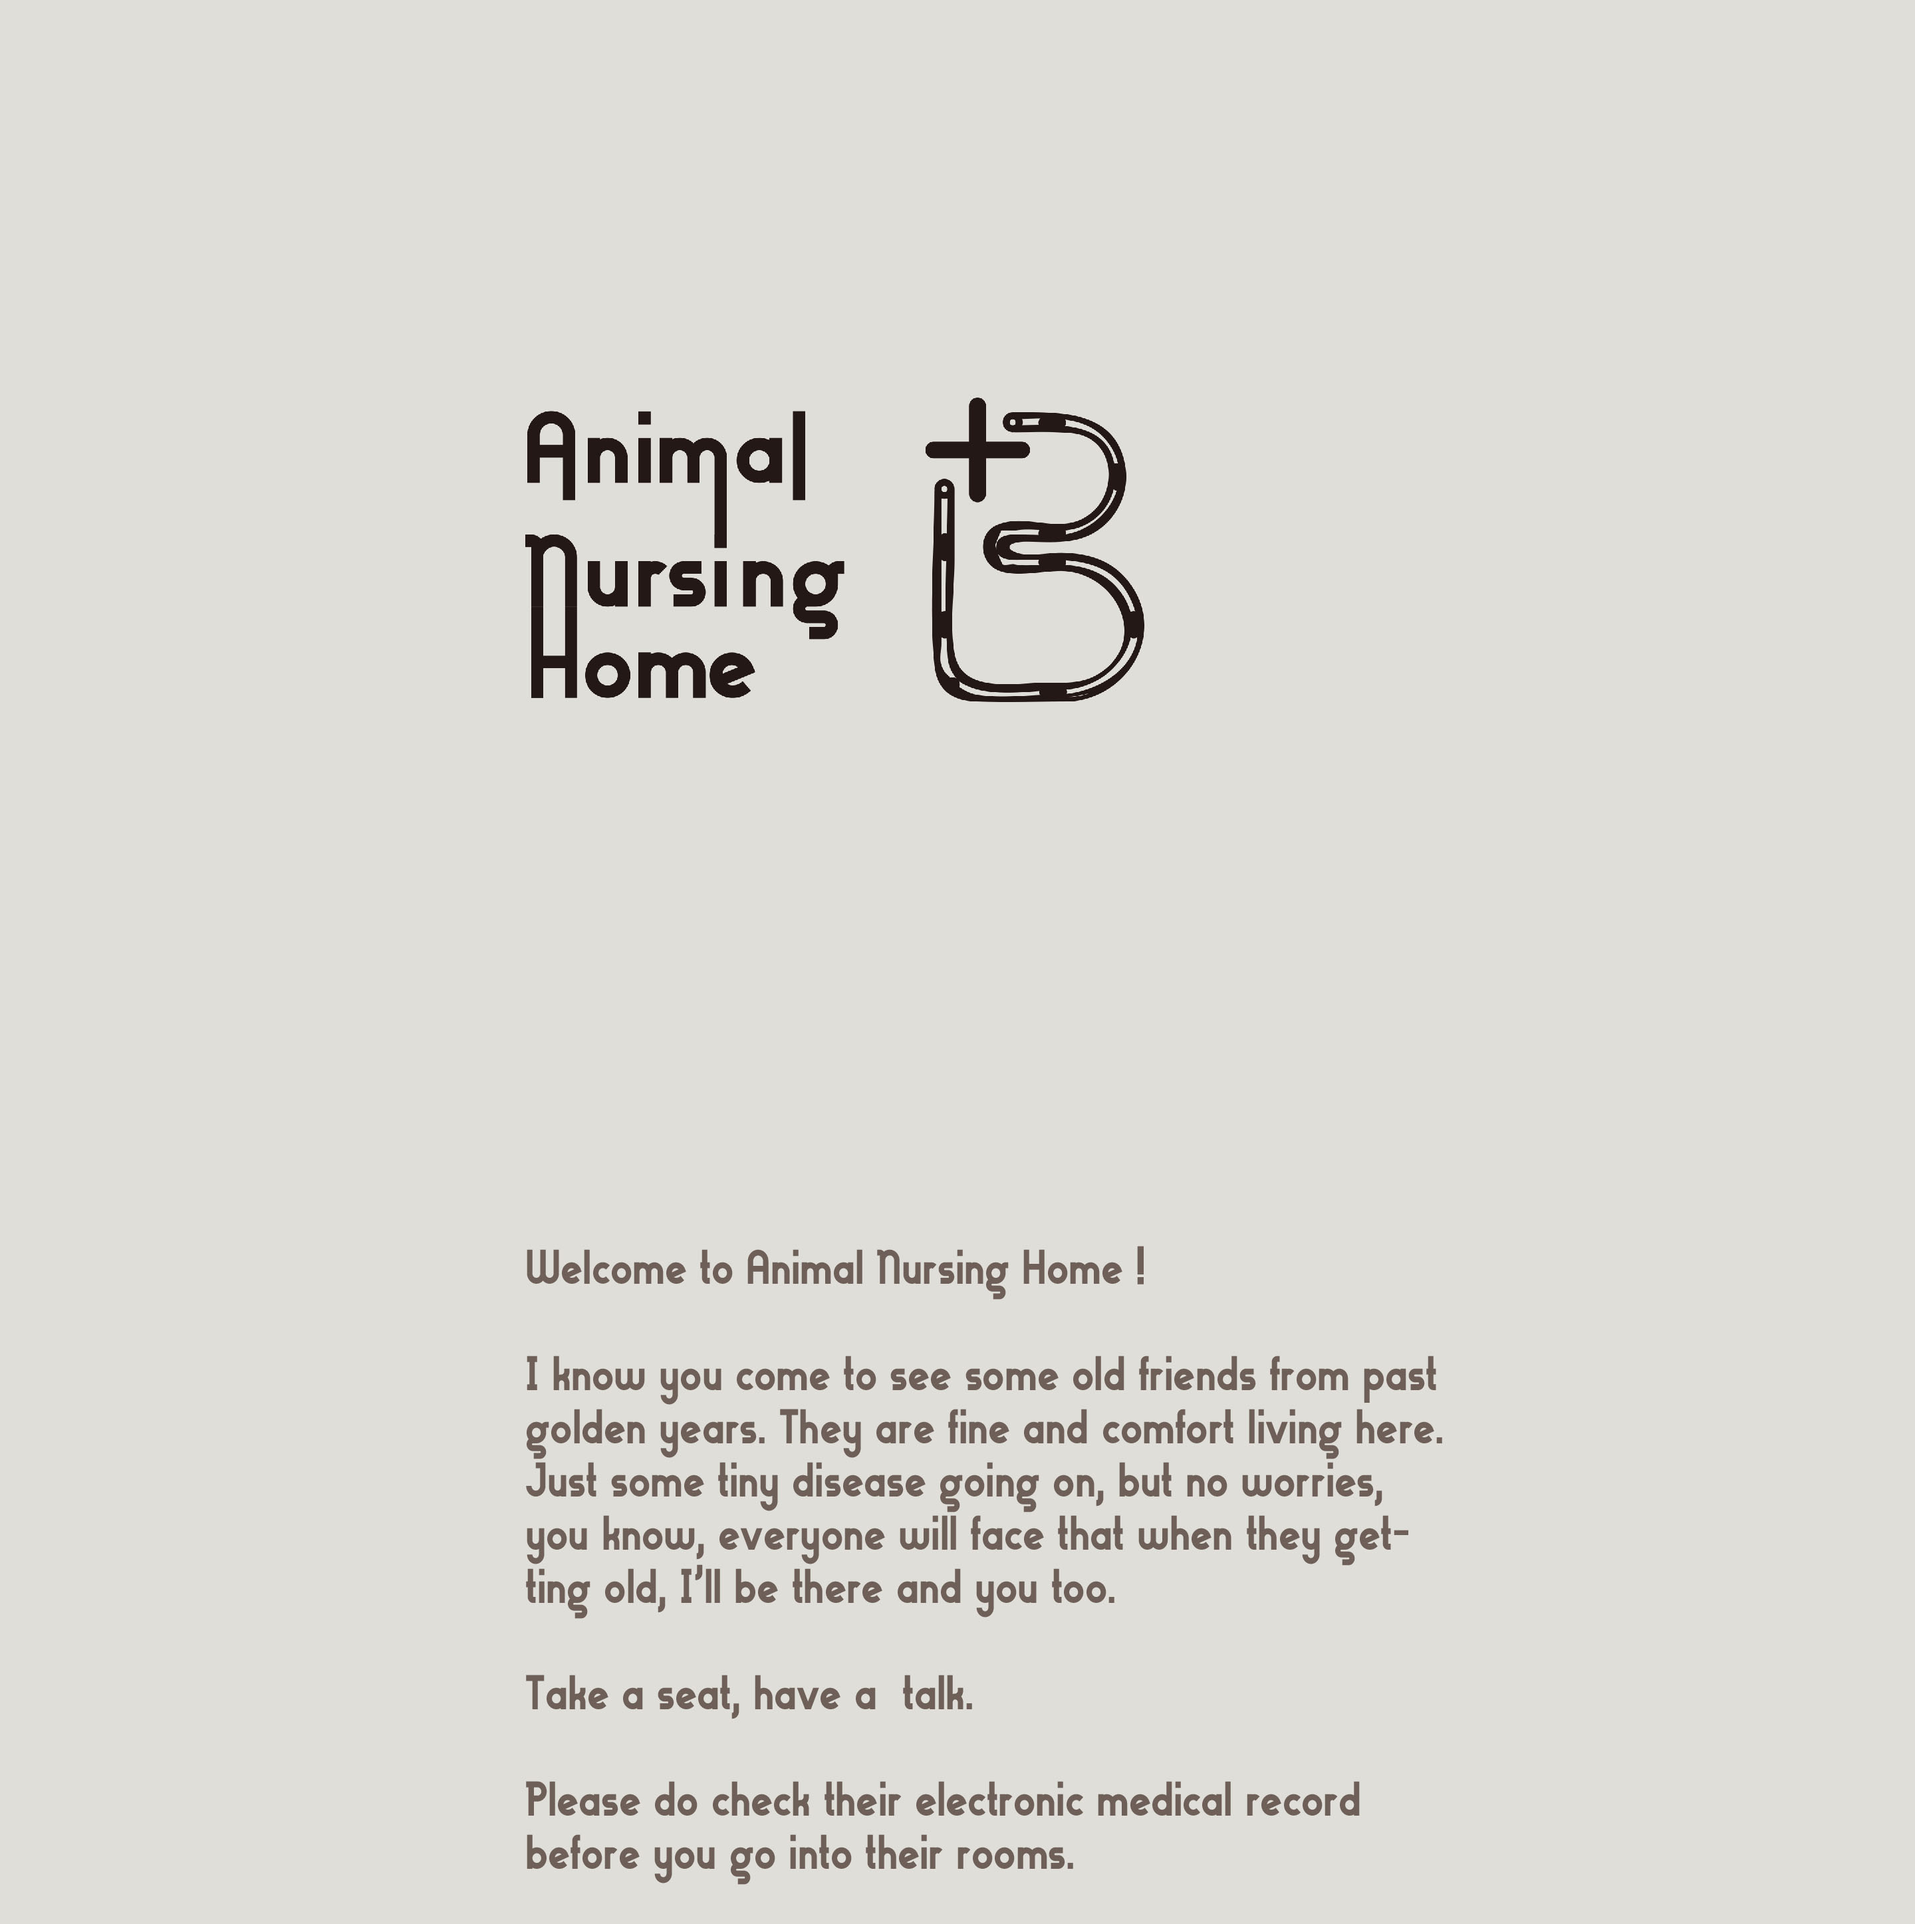
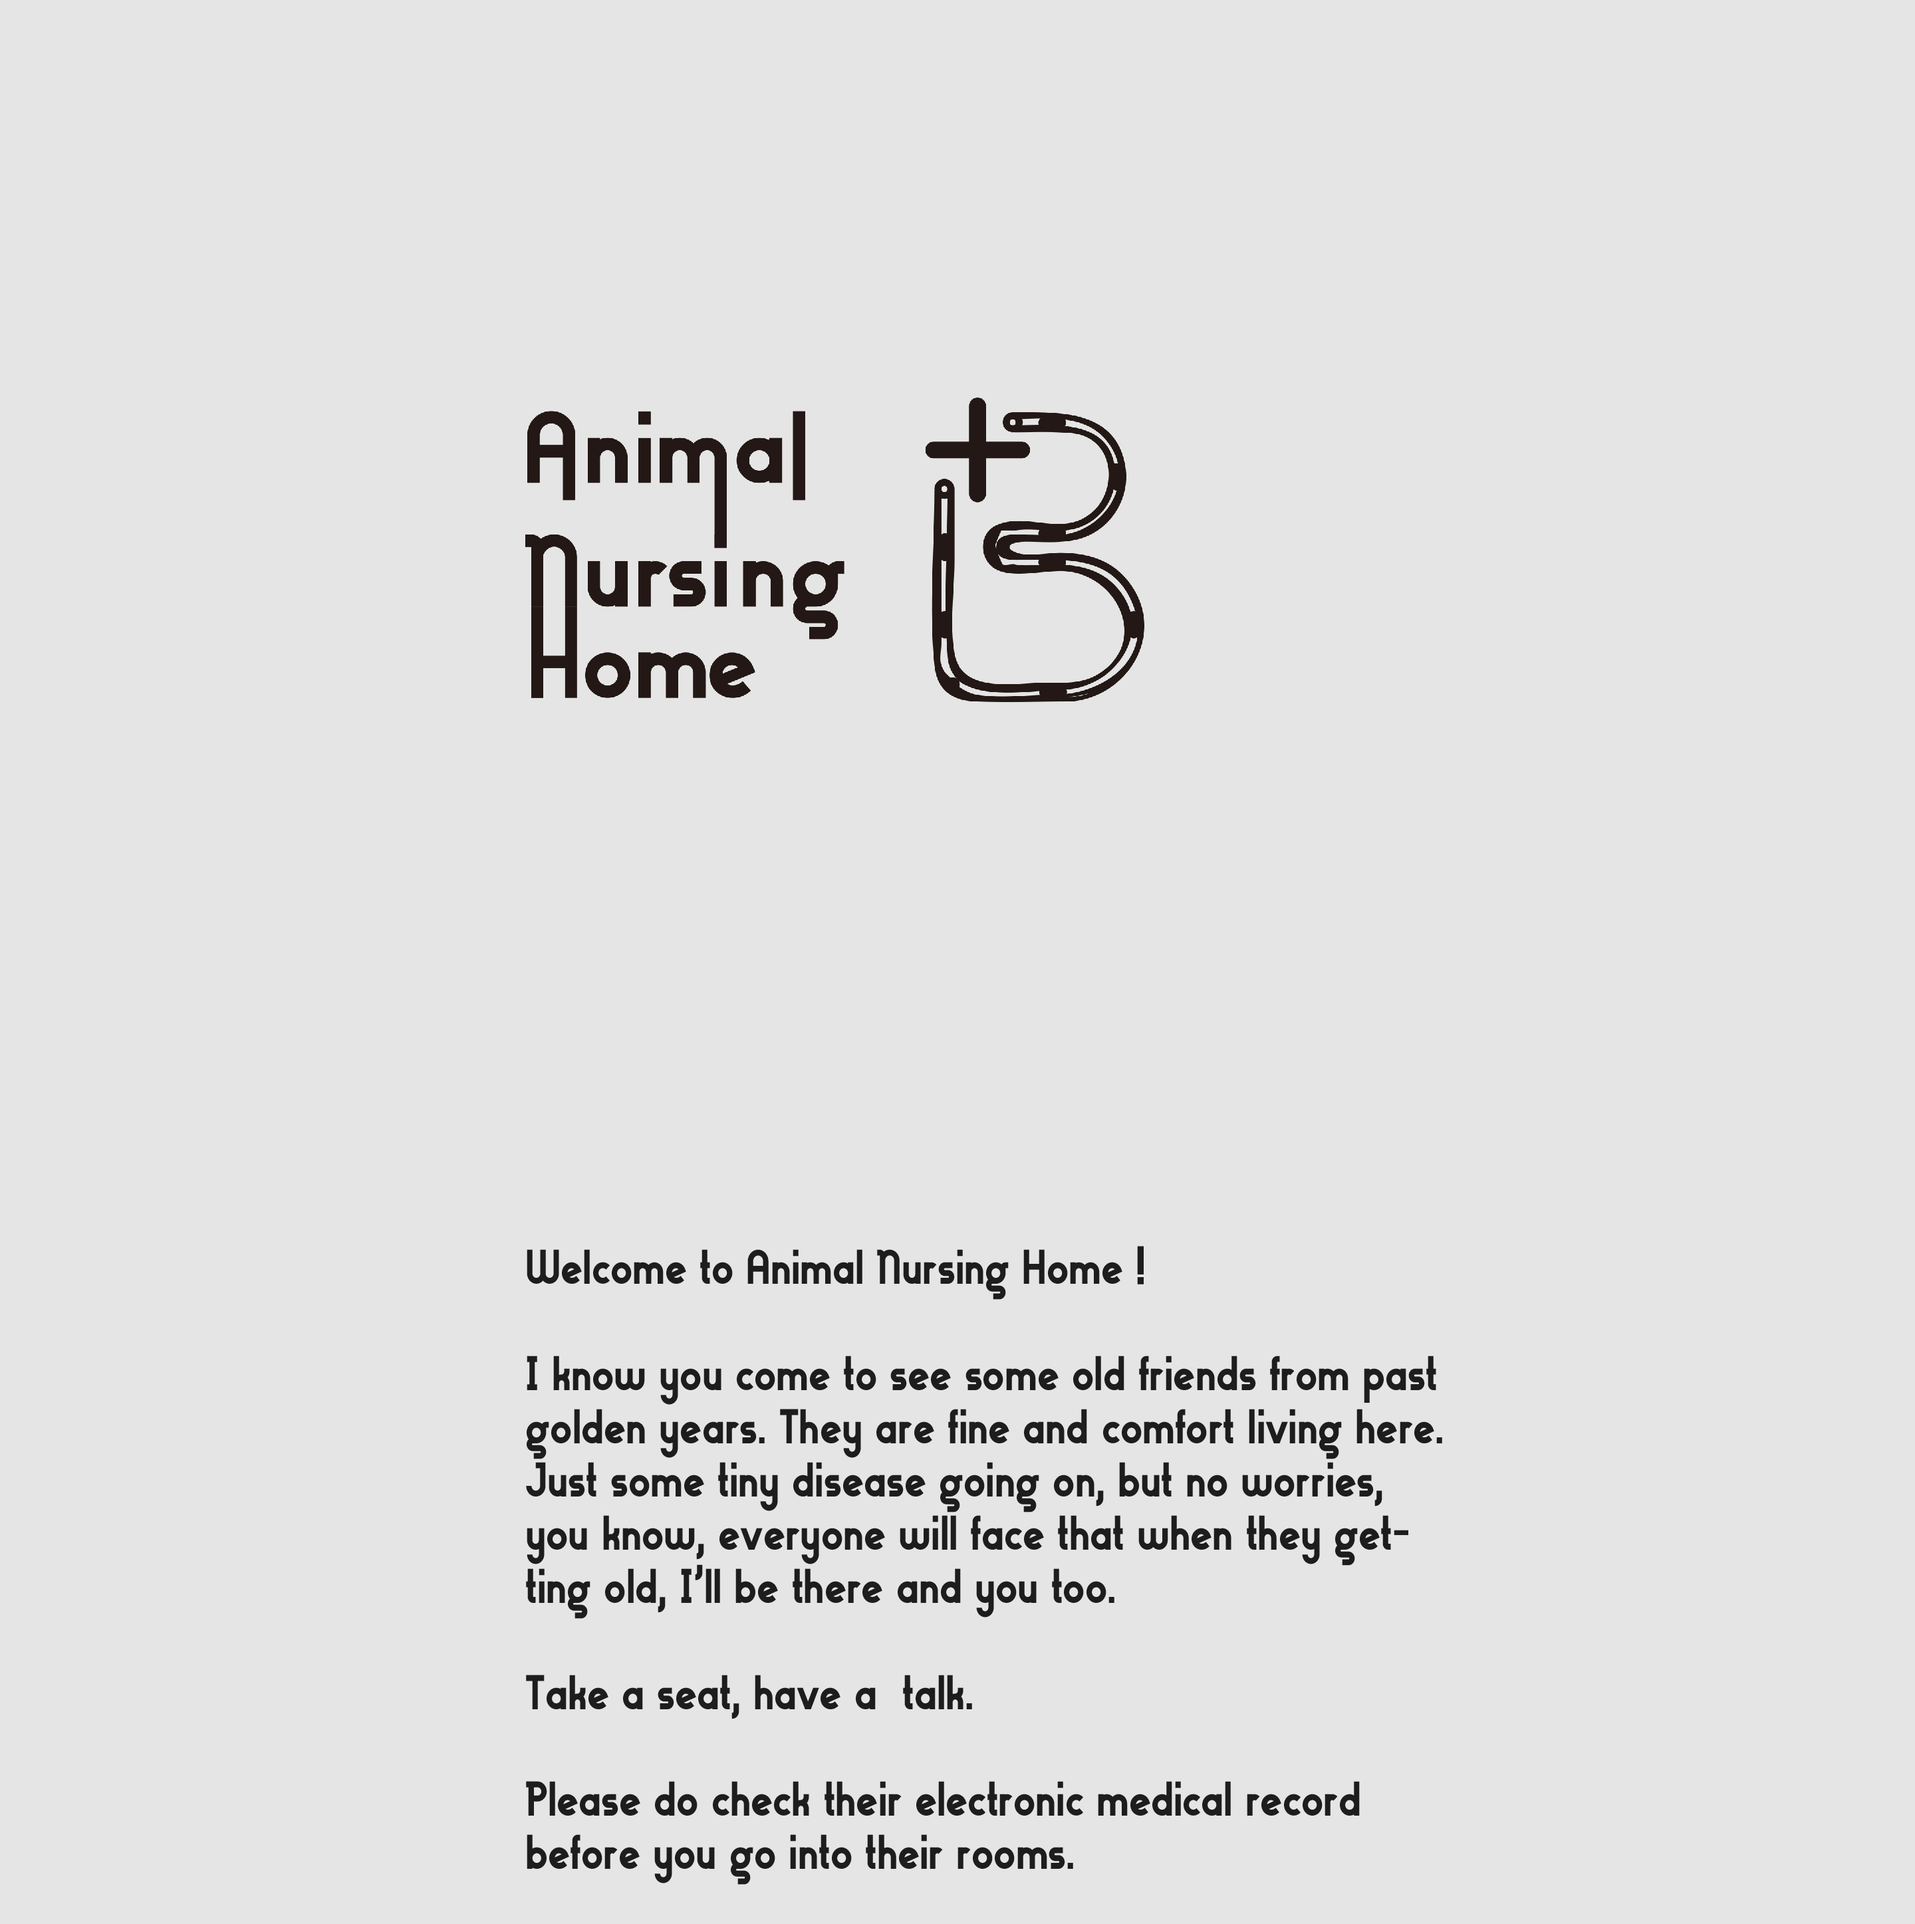
color alta change

diff --git a/animal1.html b/animal1.html
@@ -5,14 +5,14 @@
     <body>
         <div class="left_column">
             <div class="btn-group">
-                <button class="button" onclick="myFunction(1)"><img src="images/animal1.jpg"></button>
-                <button class="button" onclick="myFunction(2)"><img src="images/animal2.jpg"></button>
-                <button class="button" onclick="myFunction(3)"><img src="images/animal3.jpg"></button>
-                <button class="button" onclick="myFunction(4)"><img src="images/animal4.jpg"></button>
-                <button class="button" onclick="myFunction(5)"><img src="images/animal5.jpg"></button>
-                <button class="button" onclick="myFunction(6)"><img src="images/animal6.jpg"></button>
-                <button class="button" onclick="myFunction(7)"><img src="images/animal7.jpg"></button>
-                <button class="button" onclick="myFunction(8)"><img src="images/animal8.jpg"></button>
+                <button class="button" onclick="myFunction(1)"><img src="images/animal1.png"></button>
+                <button class="button" onclick="myFunction(2)"><img src="images/animal2.png"></button>
+                <button class="button" onclick="myFunction(3)"><img src="images/animal3.png"></button>
+                <button class="button" onclick="myFunction(4)"><img src="images/animal4.png"></button>
+                <button class="button" onclick="myFunction(5)"><img src="images/animal5.png"></button>
+                <button class="button" onclick="myFunction(6)"><img src="images/animal6.png"></button>
+                <button class="button" onclick="myFunction(7)"><img src="images/animal7.png"></button>
+                <button class="button" onclick="myFunction(8)"><img src="images/animal8.png"></button>
             </div>
         </div>
         <div class="right_column">

diff --git a/styles/animal-style.css b/styles/animal-style.css
@@ -1,7 +1,7 @@
 .left_column {
     float: left;
     width: 25%;
-    background: #e0ded9;
+    background: #e5e5e5;
     height: 100%;
     text-align: "center";
     overflow-y: scroll;
@@ -9,7 +9,7 @@
 
 .right_column {
     margin-left: 25%;
-    background: #6e5f58;
+    background: #000000;
     height: 100%;
     text-align: "center";
     overflow-y: hidden;
@@ -62,10 +62,10 @@
 
 ::-webkit-scrollbar-thumb:vertical {
     height: 30px;
-    background-color: #968c87;
+    background-color: #9c9c9c;
     -webkit-border-radius: 2px;
 }
 
 ::-webkit-scrollbar-thumb:hover {
-    background-color: #6e5f58;
+    background-color: #7b7b7b;
 }

diff --git a/animal0.html b/animal0.html
@@ -3,7 +3,7 @@
 <head>
 <style>
 body {
-  background: #e0ded9;
+  background: #e5e5e5;
 }
 img {
   display: block;
